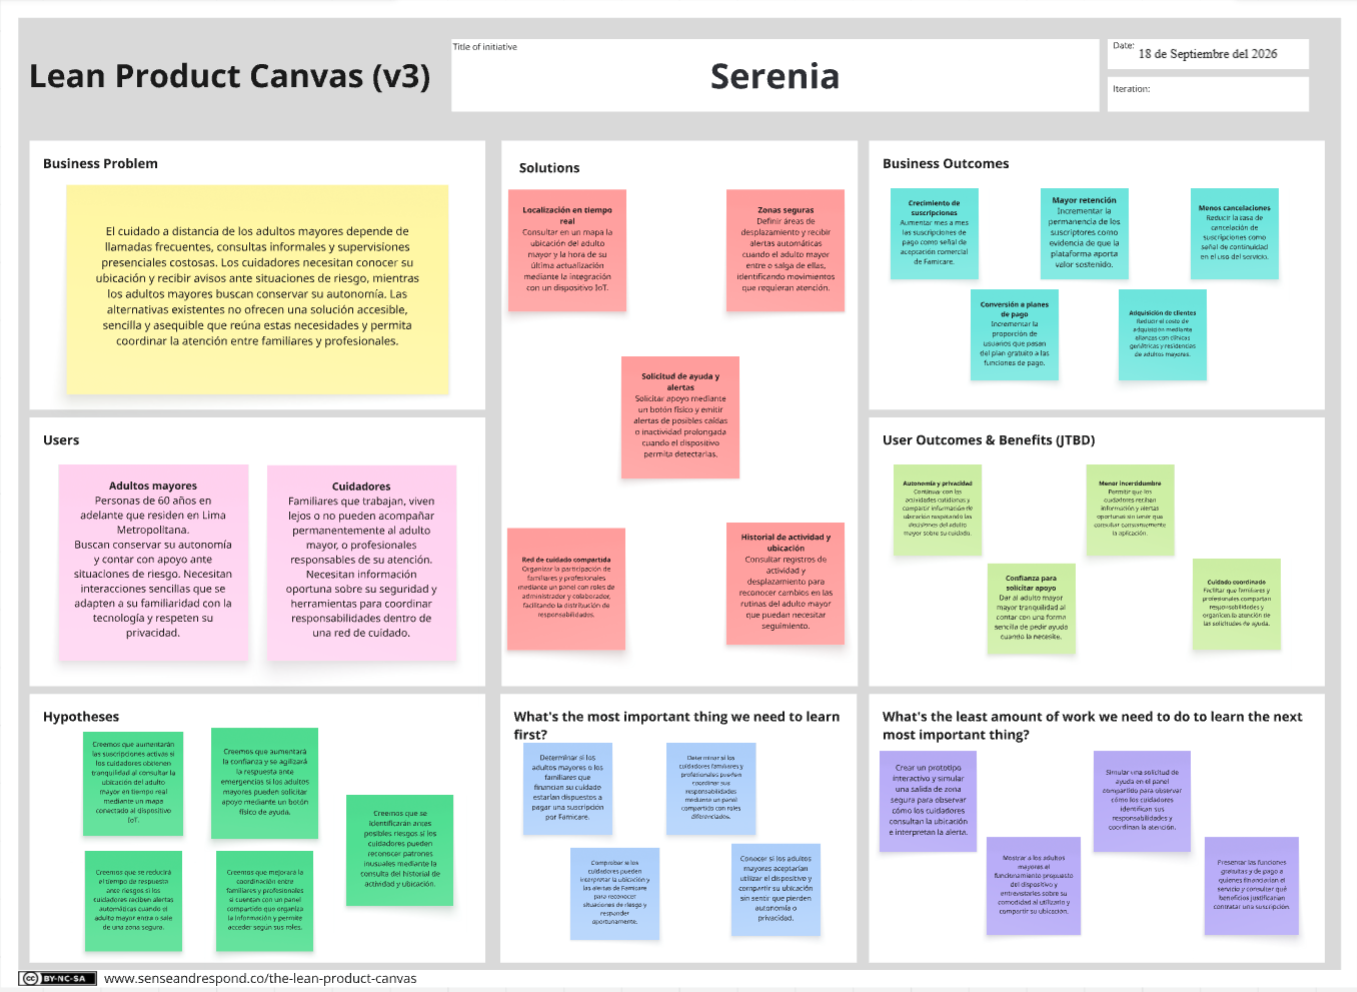
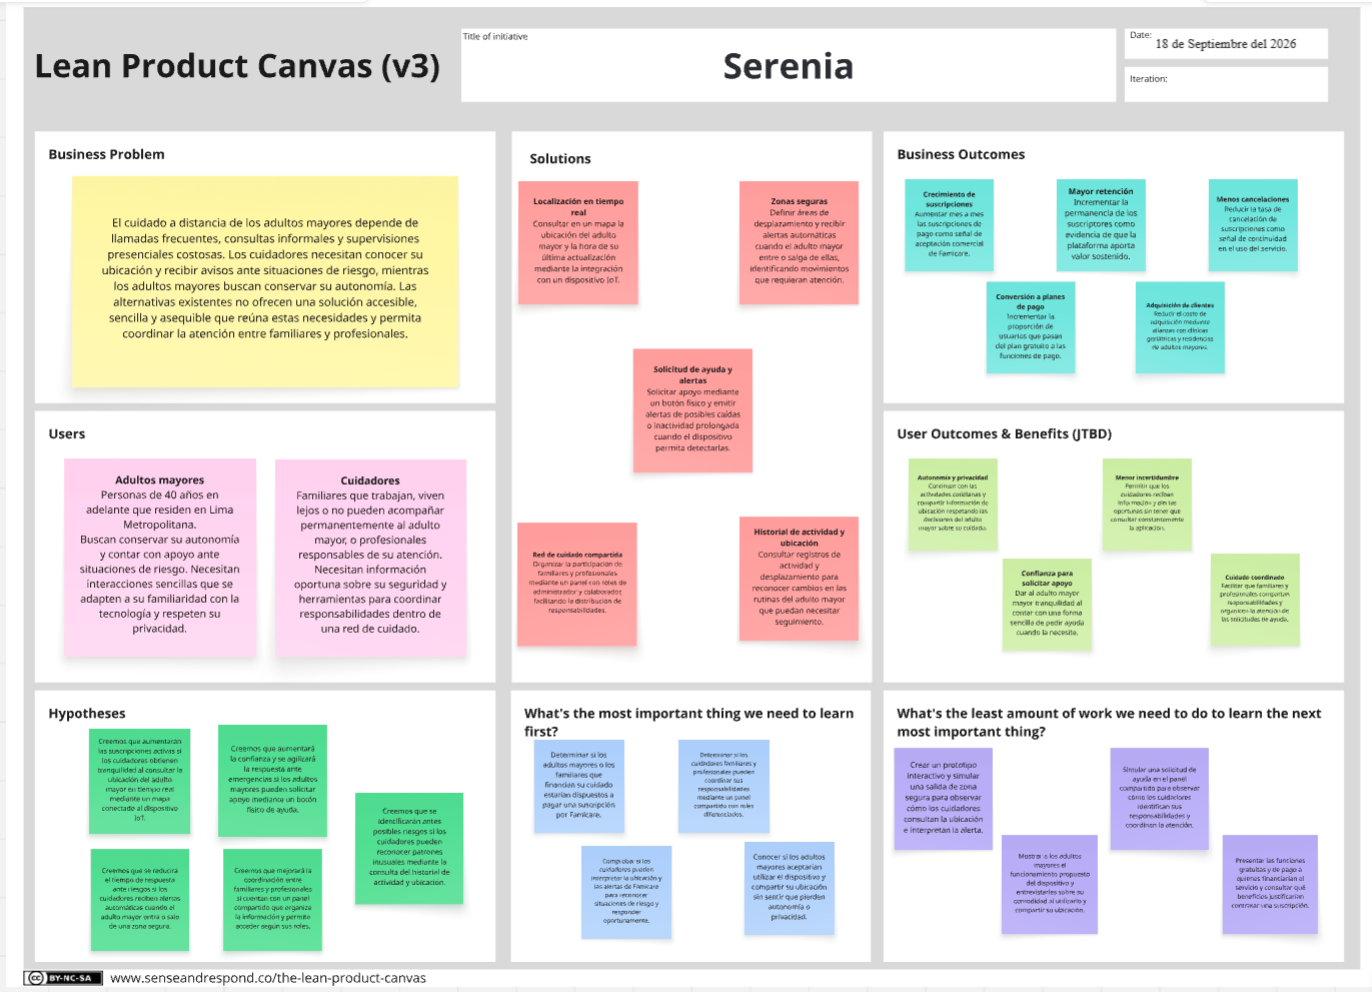
docs: add new images from the interviews and correct some words in the target segments

Changed region(s): [[0.0, 0.0, 0.9904, 1.0]]

diff --git a/README.md b/README.md
@@ -236,7 +236,7 @@ Principalmente en zonas urbanas de Lima Metropolitana y otras ciudades del Perú
 
 **Who (¿A quiénes les afecta?)**
 
-Adultos mayores (60 años a más) que viven solos o con supervisión limitada, y las personas que tienen a su cargo su cuidado: cuidadores familiares (hijos, cónyuges u otros parientes que trabajan o residen lejos) y cuidadores formales (enfermeras a domicilio, personal de residencias).
+Adultos mayores (40 años a más) que viven solos o con supervisión limitada, y las personas que tienen a su cargo su cuidado: cuidadores familiares (hijos, cónyuges u otros parientes que trabajan o residen lejos) y cuidadores formales (enfermeras a domicilio, personal de residencias).
 
 **Why (¿Por qué sucede el problema?)**
 
@@ -263,7 +263,7 @@ Lo que los productos y servicios existentes no ofrecen es una solución accesibl
 
 Serenia cubrirá esta necesidad mediante Famicare, integrada con dispositivos de localización IoT de bajo costo; esto permitirá a los cuidadores definir zonas seguras, recibir alertas de riesgo en tiempo real y coordinar la atención de manera colaborativa dentro de una red de cuidados compartida.
 
-Nos centraremos inicialmente en los cuidadores (familiares o profesionales) responsables de la seguridad de adultos mayores (de 65 años en adelante) que residen en zonas urbanas de Lima.
+Nos centraremos inicialmente en los cuidadores (familiares o profesionales) responsables de la seguridad de adultos mayores (de 40 años en adelante) que residen en zonas urbanas de Lima.
 
 Sabremos que hemos tenido éxito cuando observemos que los cuidadores consultan diariamente la ubicación y el estado de las zonas seguras de la persona mayor a través de la plataforma, y responden a las alertas de riesgo pocos minutos después de recibirlas.
 
@@ -328,7 +328,7 @@ Sabremos que hemos tenido éxito cuando observemos que los cuidadores consultan 
 
 #### 1.3.1 Segmento 1: Adultos mayores autónomos
 
-  - **Descripción:** Personas de 60 años a más, que mantienen cierto nivel de independencia (pueden salir solos a realizar actividades cotidianas como ir al parque, mercado o citas médicas), pero que presentan riesgos asociados a la edad (caídas, desorientación, deterioro cognitivo leve).
+  - **Descripción:** Personas de 40 años a más, que mantienen cierto nivel de independencia (pueden salir solos a realizar actividades cotidianas como ir al parque, mercado o citas médicas), pero que presentan riesgos asociados a la edad (caídas, desorientación, deterioro cognitivo leve).
 
   - **Características demográficas:** Residentes en zonas urbanas de Lima Metropolitana; con o sin experiencia previa en el uso de tecnología; valoran su independencia y pueden mostrar resistencia inicial a sentirse "vigilados".
 
@@ -338,7 +338,7 @@ Sabremos que hemos tenido éxito cuando observemos que los cuidadores consultan 
 
   - **Descripción:** Personas responsables del bienestar y la seguridad de uno o varios adultos mayores. Este segmento agrupa dos perfiles con la misma necesidad central —saber que el adulto mayor está bien y poder actuar rápido si algo ocurre— aunque con matices distintos en su relación con él:
 
-    - **Cuidadores familiares:** hijos/as, cónyuges u otros parientes (típicamente entre 30 y 60 años) que no pueden estar físicamente presentes de forma constante debido a compromisos laborales o distancia geográfica, y que suelen asumir el rol de administrador de la cuenta del adulto mayor.
+    - **Cuidadores familiares:** hijos/as, cónyuges u otros parientes (típicamente entre 20 y 60 años) que no pueden estar físicamente presentes de forma constante debido a compromisos laborales o distancia geográfica, y que suelen asumir el rol de administrador de la cuenta del adulto mayor.
 
     - **Cuidadores formales:** enfermeras a domicilio, acompañantes terapéuticos o personal de residencias geriátricas, que tienen a su cargo el cuidado directo de uno o varios adultos mayores de forma remunerada, y que suelen requerir acceso como colaboradores dentro de la red de cuidado.
 
@@ -493,8 +493,19 @@ Sabremos que hemos tenido éxito cuando observemos que los cuidadores consultan 
 
 Se diseñaron dos guías de entrevista, una por cada segmento objetivo identificado en el Capítulo I. Las preguntas buscan recoger tanto información demográfica como información conductual y actitudinal (personalidad, frustraciones, canales digitales, dispositivos de preferencia) necesaria para construir los User Personas.
 
-**Guía de entrevista — Segmento 1: Cuidadores (familiares y formales)**
-Esta guía se aplica tanto a cuidadores familiares como formales; las preguntas 1 y 2 permiten identificar el tipo de vínculo antes de continuar con las preguntas comunes.
+**Segmento 1: Adultos mayores autónomos**
+
+1. Cuéntame sobre tu día típico: ¿a qué lugares sueles salir solo/a?
+2. ¿Usas algún celular o dispositivo cuando sales de casa? ¿Cómo te sientes usándolo?
+3. ¿Alguna vez te has sentido perdido/a, desorientado/a o has tenido una caída estando fuera de casa?
+4. ¿Cómo te sientes con la idea de que quien te cuida (familiar o cuidador) pueda saber dónde estás en todo momento?
+5. ¿Qué tan fácil o difícil te resulta usar aplicaciones nuevas en el celular?
+6. Si tuvieras un botón para pedir ayuda en caso de emergencia, ¿en qué situaciones lo usarías?
+7. ¿Qué te haría sentir que una tecnología como esta te ayuda, en lugar de hacerte sentir vigilado/a?
+8. ¿Qué tipo de dispositivo preferirías llevar contigo (reloj, colgante, pulsera)? ¿Por qué?
+
+**Segmento 2: Cuidadores (familiares y formales)**
+
 1. Cuéntame un poco sobre ti: ¿a qué te dedicas? ¿Cuál es tu relación con el adulto mayor que cuidas (familiar directo, cónyuge, cuidador contratado, personal de una residencia, etc.)?
 2. ¿Cuántos adultos mayores tienes actualmente a tu cuidado y con qué frecuencia interactúas con ellos (todo el día, algunas horas, a distancia)?
 3. ¿Qué haces actualmente para saber si el adulto mayor a tu cargo está bien cuando no estás presente?
@@ -507,51 +518,98 @@ Esta guía se aplica tanto a cuidadores familiares como formales; las preguntas 
 10. (Si es cuidador formal) ¿Qué información te gustaría poder compartir fácilmente con la familia del adulto mayor (ubicación, actividad, incidentes)? ¿Qué te preocuparía sobre compartir acceso con varias personas a la vez?
 11. ¿Qué es lo que más valorarías de una aplicación de este tipo (facilidad de uso, rapidez de alertas, precio, privacidad)?
 
-**Guía de entrevista — Segmento 2: Adultos mayores autónomos**
-1. Cuéntame sobre tu día típico: ¿a qué lugares sueles salir solo/a?
-2. ¿Usas algún celular o dispositivo cuando sales de casa? ¿Cómo te sientes usándolo?
-3. ¿Alguna vez te has sentido perdido/a, desorientado/a o has tenido una caída estando fuera de casa?
-4. ¿Cómo te sientes con la idea de que quien te cuida (familiar o cuidador) pueda saber dónde estás en todo momento?
-5. ¿Qué tan fácil o difícil te resulta usar aplicaciones nuevas en el celular?
-6. Si tuvieras un botón para pedir ayuda en caso de emergencia, ¿en qué situaciones lo usarías?
-7. ¿Qué te haría sentir que una tecnología como esta te ayuda, en lugar de hacerte sentir vigilado/a?
-8. ¿Qué tipo de dispositivo preferirías llevar contigo (reloj, colgante, pulsera)? ¿Por qué?
-
 ### <a name="interviews_record"></a>2.2.2 Registro de entrevistas
 
-- Entrevistas a Ciudadores (Segmento 1)
+##### Entrevistas a Adultos mayores autónomos (Segmento 1):
 
-Nombre: Betsabé
-	Apellidos: Olortegui 
-	Edad: 52 años
-	Distrito: Chancay
-	
-  ![](./assets/CapturaEntrevista1.png)
-	
-   [Link de entrevista](https://upcedupe-my.sharepoint.com/:v:/g/personal/u202223405_upc_edu_pe/IQC5m7xaxoWSQayDICur4w5uAb_VpzECE0kj2KnRYZyPo_k?nav=eyJyZWZlcnJhbEluZm8iOnsicmVmZXJyYWxBcHAiOiJPbmVEcml2ZUZvckJ1c2luZXNzIiwicmVmZXJyYWxBcHBQbGF0Zm9ybSI6IldlYiIsInJlZmVycmFsTW9kZSI6InZpZXciLCJyZWZlcnJhbFZpZXciOiJNeUZpbGVzTGlua0NvcHkifX0&e=2qdOaR)
-	
-  Resumen de la entrevista
-	
-   Betsabé está al cuidado de su padre mayor a 80 años, quien es paciente oncológico, por lo que debe estar bajo cuidado constante. Asegura que muchas veces al estar alejada, lo deja al cuidado de otros familiares, pero no tiene forma de monitorearlo más que contactar a los familiares que lo cuidan en el momento, y por eso busca una solución para que pueda darle tranquilidad de que todo está bien.
-  
-- Entrevistas a Adultos mayores autónomos (Segmento 2)
+##### Entrevista 1:
+|              Atributo               | Detalle |    
+|:-----------------------------------:|:--------------------------------------------------------------------------------------------------------------------------------------------------------------------------------------------------------------------------------------------------------------------------------------------------------------------------------------------------------------------------------------------------------------------------------------------------------------------------------------------------------------------------------------------------------------------------------------------------------------------------------------------------------------------------------------------------------------------------------------------------------------------------------------------------------------------------------------------------------------------------------------------------------------------------------------------------------------------------------------------------------------------------------------------------------------------------------------------------------------------------------------------------------------------------------------------------------------------------------------------------------------------------------------------------------------------------------------------------------------------------------------------------------------------------------|
+|               Nombre                | Patricia Suarez |
+|                Edad                 | 40   |
+|              Distrito               | Surco   |
+|         Fecha de entrevista         | 17 de septiembre del 2026 |
+|               Timing                | 00:00 - 4:14  |
+|        Enlace a la grabación        | [*Ver en Microsoft Stream*](https://upcedupe-my.sharepoint.com/personal/u202213484_upc_edu_pe/_layouts/15/stream.aspx?id=%2Fpersonal%2Fu202213484_upc_edu_pe%2FDocuments%2Fvideo1968336476.mp4&nav=eyJyZWZlcnJhbEluZm8iOnsicmVmZXJyYWxBcHAiOiJPbmVEcml2ZUZvckJ1c2luZXNzIiwicmVmZXJyYWxBcHBQbGF0Zm9ybSI6IldlYiIsInJlZmVycmFsTW9kZSI6InZpZXciLCJyZWZlcnJhbFZpZXciOiJNeUZpbGVzTGlua0NvcHkifX0&ga=1&referrer=StreamWebApp.Web&referrerScenario=AddressBarCopied.view.66cc9be6-dd92-4fc6-b42f-f64974693606) |
+| Captura de pantalla de la grabación | ![Entrevista-1](./assets/readme/CapturaEntrevista2.png)  |
+|               Resumen               | Patricia sale sola a parques y comercios cercanos, lleva su celular y se siente cómoda usándolo, aunque alguna vez se sintió desorientada fuera de casa. Acepta que su familia conozca su ubicación siempre que respete su privacidad; le cuesta al principio usar aplicaciones nuevas y usaría un botón de ayuda en caídas, malestar o si se pierde. Preferiría una pulsera discreta, fácil de llevar y sin molestar, que le dé seguridad sin hacerla sentir vigilada. |
 
-Nombre: Patricia
-	Apellidos: Suarez 
-	Edad: 40 años
-	Distrito: Surco
-	
-  ![](./assets/CapturaEntrevista2.png)
-	
-  [Link de entrevista](https://upcedupe-my.sharepoint.com/:v:/g/personal/u202213484_upc_edu_pe/IQA5_zyAERJkRI56ILmplUQUAR-rVERpzt9ooR9GSvwDEPc?nav=eyJyZWZlcnJhbEluZm8iOnsicmVmZXJyYWxBcHAiOiJPbmVEcml2ZUZvckJ1c2luZXNzIiwicmVmZXJyYWxBcHBQbGF0Zm9ybSI6IldlYiIsInJlZmVycmFsTW9kZSI6InZpZXciLCJyZWZlcnJhbFZpZXciOiJNeUZpbGVzTGlua0NvcHkifX0&e=rbYLxQ)
-	
-  Resumen de la entrevista
-	
-   Patricia sale sola a parques y comercios cercanos, lleva su celular y se siente cómoda usándolo, aunque alguna vez se sintió desorientada fuera de casa. Acepta que su familia conozca su ubicación siempre que respete su privacidad; le cuesta al principio usar aplicaciones nuevas y usaría un botón de ayuda en caídas, malestar o si se pierde. Preferiría una pulsera discreta, fácil de llevar y sin molestar, que le dé seguridad sin hacerla sentir vigilada.
+##### Entrevistas a Ciudadores (Segmento 2):
 
+##### Entrevista 1:
+|              Atributo               | Detalle |    
+|:-----------------------------------:|:--------------------------------------------------------------------------------------------------------------------------------------------------------------------------------------------------------------------------------------------------------------------------------------------------------------------------------------------------------------------------------------------------------------------------------------------------------------------------------------------------------------------------------------------------------------------------------------------------------------------------------------------------------------------------------------------------------------------------------------------------------------------------------------------------------------------------------------------------------------------------------------------------------------------------------------------------------------------------------------------------------------------------------------------------------------------------------------------------------------------------------------------------------------------------------------------------------------------------------------------------------------------------------------------------------------------------------------------------------------------------------------------------------------------------------|
+|               Nombre                | Betsabé Olortegui |
+|                Edad                 | 52   |
+|              Distrito               | Chancay   |
+|         Fecha de entrevista         | 15 de septiembre del 2026 |
+|               Timing                | 00:00 - 14:37  |
+|        Enlace a la grabación        | [*Ver en Microsoft Stream*](https://upcedupe-my.sharepoint.com/personal/u202223405_upc_edu_pe/_layouts/15/stream.aspx?id=%2Fpersonal%2Fu202223405_upc_edu_pe%2FDocuments%2Fvideo1109525562%2Emp4&nav=eyJyZWZlcnJhbEluZm8iOnsicmVmZXJyYWxBcHAiOiJPbmVEcml2ZUZvckJ1c2luZXNzIiwicmVmZXJyYWxBcHBQbGF0Zm9ybSI6IldlYiIsInJlZmVycmFsTW9kZSI6InZpZXciLCJyZWZlcnJhbFZpZXciOiJNeUZpbGVzTGlua0NvcHkifX0&nav=eyJyZWZlcnJhbEluZm8iOnsicmVmZXJyYWxBcHAiOiJPbmVEcml2ZUZvckJ1c2luZXNzIiwicmVmZXJyYWxBcHBQbGF0Zm9ybSI6IldlYiIsInJlZmVycmFsTW9kZSI6InZpZXciLCJyZWZlcnJhbFZpZXciOiJNeUZpbGVzTGlua0NvcHkifX0&ga=1) |
+| Captura de pantalla de la grabación | ![Entrevista-1](./assets/readme/CapturaEntrevista1.png)  |
+|               Resumen               | Betsabé está al cuidado de su padre mayor a 80 años, quien es paciente oncológico, por lo que debe estar bajo cuidado constante. Asegura que muchas veces al estar alejada, lo deja al cuidado de otros familiares, pero no tiene forma de monitorearlo más que contactar a los familiares que lo cuidan en el momento, y por eso busca una solución para que pueda darle tranquilidad de que todo está bien. |
+
+##### Entrevista 2:
+|              Atributo               | Detalle |    
+|:-----------------------------------:|:--------------------------------------------------------------------------------------------------------------------------------------------------------------------------------------------------------------------------------------------------------------------------------------------------------------------------------------------------------------------------------------------------------------------------------------------------------------------------------------------------------------------------------------------------------------------------------------------------------------------------------------------------------------------------------------------------------------------------------------------------------------------------------------------------------------------------------------------------------------------------------------------------------------------------------------------------------------------------------------------------------------------------------------------------------------------------------------------------------------------------------------------------------------------------------------------------------------------------------------------------------------------------------------------------------------------------------------------------------------------------------------------------------------------------------|
+|               Nombre                | Keyla Suarez |
+|                Edad                 | 27   |
+|              Distrito               | Ate   |
+|         Fecha de entrevista         | 18 de septiembre del 2026 |
+|               Timing                | 00:00 - 3:18  |
+|        Enlace a la grabación        | [*Ver en Microsoft Stream*](https://upcedupe-my.sharepoint.com/personal/u202214499_upc_edu_pe/_layouts/15/stream.aspx?id=%2Fpersonal%2Fu202214499_upc_edu_pe%2FDocuments%2FEntrevista.mp4&nav=eyJyZWZlcnJhbEluZm8iOnsicmVmZXJyYWxBcHAiOiJPbmVEcml2ZUZvckJ1c2luZXNzIiwicmVmZXJyYWxBcHBQbGF0Zm9ybSI6IldlYiIsInJlZmVycmFsTW9kZSI6InZpZXciLCJyZWZlcnJhbFZpZXciOiJNeUZpbGVzTGlua0NvcHkifX0&ga=1&referrer=StreamWebApp.Web&referrerScenario=AddressBarCopied.view.40f6c618-3e5a-493d-a15a-f83eeeb4d4fe) |
+| Captura de pantalla de la grabación | ![Entrevista-2](./assets/readme/CapturaEntrevista3.png)  |
+|               Resumen               | Keyal Suárez, de 27 años, trabaja en una empresa de cosméticos y dedica algunas horas al día al cuidado de su abuelo. Ella se encarga de su cuidado junto con otros familiares. Uno de sus principales problemas ocurre cuando no puede estar presente, ya que su abuelo debe tomar medicamentos, pero no recuerda correctamente los horarios, por lo que puede tomarlos a destiempo o incluso olvidarse de tomarlos. Keyal no conoce actualmente ninguna aplicación de monitoreo o recordatorio para adultos mayores. Estaría dispuesta a pagar por una aplicación siempre que cumpla completamente con sus expectativas y realmente facilite el cuidado de su abuelo. Su principal necesidad es que la aplicación sea intuitiva, sencilla y fácil de utilizar para su abuelo, especialmente considerando sus dificultades para recordar los horarios de sus medicamentos.
 
 ### <a name="interviews_analysis"></a>2.2.3 Analisis de entrevistas
 
+## 2.2.3. Análisis de entrevistas
+
+#### Segmento 1 - Adultos mayores:
+
+**Total de entrevistas registradas:** 1  
+**Entrevistada:** Patricia Suarez  
+**Edad registrada:** 40 años  
+**Distrito:** Surco
+
+**Observación:** La edad consignada no coincide con el segmento definido para FamiCare, compuesto por personas de 65 años en adelante. Es necesario verificar este dato antes de incluir la entrevista como evidencia de dicho segmento. Los siguientes hallazgos corresponden únicamente al caso de Patricia.
+
+#### Características objetivas
+
+- **Desplazamiento independiente:** Patricia señala que sale sola a parques y comercios cercanos.
+- **Uso del celular durante sus salidas:** Indica que lleva consigo su teléfono cuando sale de casa.
+- **Experiencia de desorientación:** Menciona que alguna vez se sintió desorientada fuera de su hogar.
+
+#### Características subjetivas
+
+- **Comodidad con el celular:** Manifiesta sentirse cómoda utilizando su teléfono.
+- **Dificultad inicial con aplicaciones nuevas:** Señala que al principio le cuesta utilizar aplicaciones que no conoce.
+- **Aceptación condicionada de la localización:** Aceptaría que su familia conozca su ubicación siempre que se respete su privacidad.
+- **Interés en un botón de ayuda:** Indica que lo utilizaría ante una caída, malestar o una situación en la que se encuentre perdida.
+- **Preferencia por un dispositivo discreto:** Preferiría una pulsera cómoda, fácil de llevar y que no le genere molestias.
+- **Valoración de la autonomía:** Busca sentirse segura sin percibir que está siendo vigilada.
+---
+
+#### Segmento 2 - Cuidadores:
+
+**Total de entrevistados:** 2  
+**Edades:** 52 y 27 años  
+**Distritos:** Chancay y Ate
+
+#### Características objetivas
+
+- **Cuidado de un familiar adulto mayor:** 100% (2/2) participan en el cuidado de un familiar: Betsabé cuida a su padre y Keyla a su abuelo.
+- **Participación de otros familiares:** 100% (2/2) cuentan con familiares que también intervienen en el cuidado del adulto mayor.
+- **Ausencia durante parte del cuidado:** 100% (2/2) describen situaciones en las que no pueden estar presentes junto al adulto mayor.
+- **Seguimiento mediante contacto con familiares:** 50% (1/2: Betsabé) señala que, cuando está lejos, depende de comunicarse con quienes cuidan a su padre para conocer su estado.
+- **Dificultades con los horarios de medicamentos:** 50% (1/2: Keyla) indica que su abuelo puede olvidar sus medicamentos o tomarlos fuera del horario correspondiente.
+- **Desconocimiento de aplicaciones de apoyo:** 50% (1/2: Keyla) manifiesta que no conoce aplicaciones de monitoreo o recordatorios para adultos mayores.
+
+#### Características subjetivas
+
+- **Búsqueda de tranquilidad durante la ausencia:** 50% (1/2: Betsabé) expresa interés en una solución que le permita saber que su padre se encuentra bien cuando no está presente.
+- **Preferencia por una aplicación sencilla:** 50% (1/2: Keyla) considera importante que la aplicación sea intuitiva y fácil de utilizar para su abuelo.
+- **Disposición de pago condicionada al valor:** 50% (1/2: Keyla) estaría dispuesta a pagar si la aplicación cumple sus expectativas y facilita realmente el cuidado.
+- **Interés en apoyar el cumplimiento de horarios:** 50% (1/2: Keyla) identifica como una necesidad ayudar a su abuelo a recordar cuándo debe tomar sus medicamentos.
 
 ## <a name="needfinding"></a>2.3 Needfinding
 
